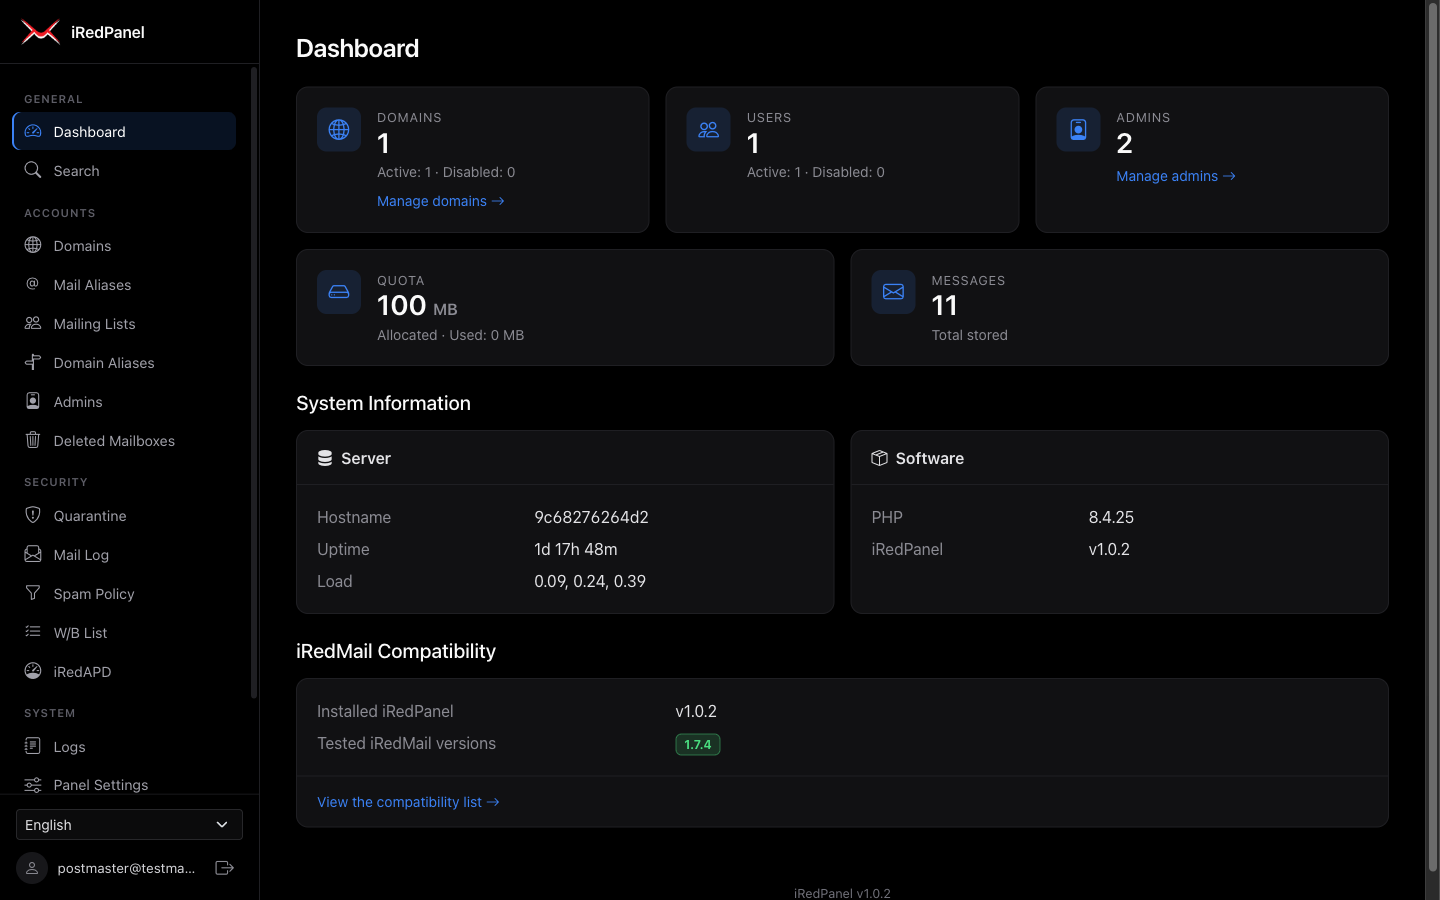
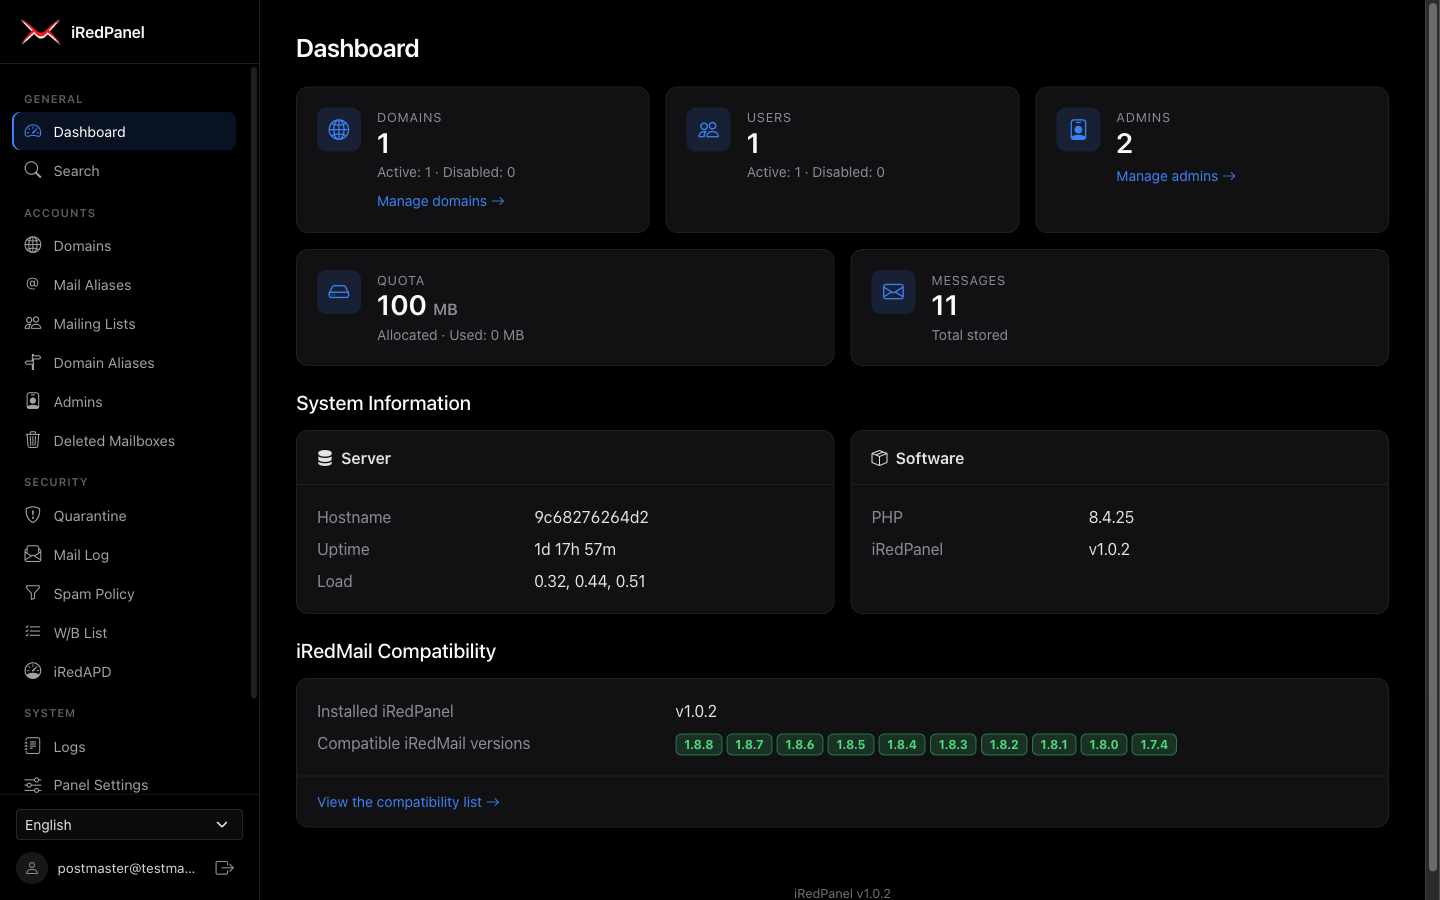
feat(compat): mark iRedPanel 1.0.2 compatible with iRedMail 1.8.0 to 1.8.8
The iRedMail 1.8.0 to 1.8.8 releases change no schema that the panel
uses. Checked per release: the ChangeLog, the upgrade guide on
docs.iredmail.org, samples/ and update/ in the iRedMail tree, and the
bundled iRedAdmin 2.8.1, iRedAPD 6.1 and 6.2 and mlmmjadmin 3.6.2 and
3.6.3 releases.

- vmail, iredadmin, amavisd and iredapd: no table or column change.
  PostgreSQL only replaces the used_quota trigger for Dovecot 2.4.
- LDAP: no schema or attribute change; slapd.conf adds an
  employeeNumber index.
- mlmmjadmin API: no route change; a new optional list parameter.

The list now holds versions that are compatible by this check, so the
UI, README and installation guides say "compatible" instead of
"tested", and compat.tested becomes compat.compatible.

Changed region(s): [[0.4688, 0.8089, 0.8438, 0.84], [0.2188, 0.8089, 0.375, 0.84], [0.375, 0.5911, 0.4688, 0.6533]]

diff --git a/templates/dashboardCompatibility.php b/templates/dashboardCompatibility.php
@@ -11,7 +11,7 @@ $current = $compatibility['current'] ?? null;
     <dl class="row mb-0">
       <dt class="col-md-4 text-body-secondary fw-normal"><?= $te('compat.installed') ?></dt>
       <dd class="col-md-8">v<?= $e($systemInfo['iredpanelVersion']) ?></dd>
-      <dt class="col-md-4 text-body-secondary fw-normal"><?= $te('compat.tested') ?></dt>
+      <dt class="col-md-4 text-body-secondary fw-normal"><?= $te('compat.compatible') ?></dt>
       <dd class="col-md-8 mb-0">
         <?php if ($current !== null): ?>
         <?php foreach ($current['iredmail'] as $version): ?>

diff --git a/src/Services/CompatibilityService.php b/src/Services/CompatibilityService.php
@@ -7,7 +7,7 @@ namespace App\Services;
 use App\Models\Settings;
 
 /**
- * The iRedMail versions each iRedPanel release was tested with.
+ * The iRedMail versions each iRedPanel release is compatible with.
  *
  * The list is compatibility.json in the repository root. The dashboard reads the
  * copy on the main branch of GitHub, so an installed panel also sees releases that

diff --git a/templates/compatibility.php b/templates/compatibility.php
@@ -22,7 +22,7 @@ $backendNames = ['ldap' => 'LDAP', 'mysql' => 'MySQL/MariaDB', 'pgsql' => 'Postg
       <thead>
         <tr>
           <th>iRedPanel</th>
-          <th><?= $te('compat.tested') ?></th>
+          <th><?= $te('compat.compatible') ?></th>
           <th><?= $te('compat.backends') ?></th>
           <th><?= $te('compat.released') ?></th>
         </tr>

diff --git a/src/Controllers/CompatibilityController.php b/src/Controllers/CompatibilityController.php
@@ -12,7 +12,7 @@ use App\Utils\SystemInfo;
 class CompatibilityController
 {
     /**
-     * Lists every iRedPanel release with the iRedMail versions it was tested with.
+     * Lists every iRedPanel release with the iRedMail versions it is compatible with.
      */
     public static function view(TemplateEngine $tpl): void
     {

diff --git a/README.md b/README.md
@@ -10,7 +10,7 @@ The application is vanilla PHP 8.1+ with no framework, no ORM and no template en
 |------------|------------------------------------------------------|
 | Package    | `kilimcininkoroglu/iredpanel`                        |
 | Version    | `1.0.2`                                              |
-| iRedMail   | Tested with `1.7.4`                                  |
+| iRedMail   | Compatible with `1.7.4` and `1.8.0` to `1.8.8`       |
 | Repository | `https://github.com/KilimcininKorOglu/iRedPanel.git` |
 | License    | MIT                                                  |
 
@@ -44,14 +44,14 @@ With the LDAP backend, mail accounts live in LDAP, and the iRedAdmin, Amavisd an
 
 ## iRedMail Compatibility
 
-| iRedPanel | Tested iRedMail versions | Backends                         | Released   |
-|-----------|--------------------------|----------------------------------|------------|
-| 1.0.2     | 1.7.4                    | OpenLDAP, MySQL/MariaDB, PostgreSQL | 2026-07-26 |
+| iRedPanel | Compatible iRedMail versions | Backends | Released |
+|-----------|------------------------------|----------|----------|
+| 1.0.2     | 1.7.4, 1.8.0, 1.8.1, 1.8.2, 1.8.3, 1.8.4, 1.8.5, 1.8.6, 1.8.7, 1.8.8 | OpenLDAP, MySQL/MariaDB, PostgreSQL | 2026-07-26 |
 
-[`compatibility.json`](compatibility.json) is the source of this table. It maps every iRedPanel release to the iRedMail versions that the project tested it with. A version enters the list only after a test.
+[`compatibility.json`](compatibility.json) is the source of this table. It maps every iRedPanel release to the iRedMail versions that it is compatible with. The panel runs on the iRedMail 1.7.4 test stacks. A later iRedMail version enters the list after its ChangeLog, its upgrade guide on docs.iredmail.org and its schema files (`vmail`, `iredadmin`, `amavisd`, `iredapd` and the LDAP schema), including the bundled iRedAdmin, iRedAPD and mlmmjadmin releases, show no change that the panel depends on. The first iRedMail version with such a change needs a new iRedPanel release.
 
 - The panel reads the copy on the `main` branch of GitHub, so an installed panel also sees newer releases. It caches the download for 24 hours. When GitHub cannot be read, or `CHECK_UPDATES=false`, it uses the copy bundled with the installed version.
-- **System > iRedMail Compatibility** (`/compatibility`, global admin) lists every release and marks the installed one. The dashboard shows the tested iRedMail versions of the installed release, and an alert when a newer release exists.
+- **System > iRedMail Compatibility** (`/compatibility`, global admin) lists every release and marks the installed one. The dashboard shows the compatible iRedMail versions of the installed release, and an alert when a newer release exists.
 - The panel does not detect the iRedMail version of the server. Compare it with the list yourself (`cat /etc/iredmail-release` on the mail server).
 - Upgrade order: upgrade iRedMail first, then install the iRedPanel release that lists the new iRedMail version.
 
@@ -382,7 +382,7 @@ server {
 - Domain, user and admin counts with active and disabled totals
 - Allocated and used quota, and stored message count
 - System information: hostname, uptime, load, PHP and panel versions
-- Tested iRedMail versions of the installed release, and an alert for a newer release (see [iRedMail Compatibility](#iredmail-compatibility))
+- Compatible iRedMail versions of the installed release, and an alert for a newer release (see [iRedMail Compatibility](#iredmail-compatibility))
 
 ### Activity Log
 - Admin operations are logged to the `log` table of the iRedAdmin database
@@ -586,7 +586,7 @@ Dockerfile                     dev and prod images (PHP 8.4 + Apache)
 docker-compose.dev.yml         Development container (127.0.0.1:8521)
 docker-compose.prod.yml        Production container (127.0.0.1:8522)
 .env.example                   Environment variable template
-compatibility.json             Tested iRedMail versions per iRedPanel release
+compatibility.json             Compatible iRedMail versions per iRedPanel release
 cli/                           CLI tools and cron scripts (cli/bootstrap.php loads the environment)
 docs/install/                  Installation guides per backend (en, tr)
 docs/screenshots/              README images

diff --git a/docs/install/tr/ldap.md b/docs/install/tr/ldap.md
@@ -6,9 +6,9 @@ Diğer backend'ler: [MariaDB/MySQL](mariadb.md), [PostgreSQL](postgresql.md). İ
 
 ## Uyumluluk
 
-| iRedPanel | Test edilen iRedMail sürümü | Test edilen sürüm türü |
-|-----------|-----------------------------|------------------------|
-| 1.0.2     | 1.7.4                       | OPENLDAP edition       |
+| iRedPanel | Uyumlu iRedMail sürümleri |
+|-----------|---------------------------|
+| 1.0.2     | 1.7.4, 1.8.0, 1.8.1, 1.8.2, 1.8.3, 1.8.4, 1.8.5, 1.8.6, 1.8.7, 1.8.8 |
 
 Geçerli liste, repodaki [`compatibility.json`](../../../compatibility.json) dosyasıdır. Dashboard ve **System > iRedMail Compatibility** sayfası bu dosyayı okur. Sunucunuzdaki iRedMail sürümünü kontrol edin:
 
@@ -298,7 +298,7 @@ Mail sunucusunun firewall'unda, panel adresinden `389`, `3306`, `7790` ve `9998`
 
 ## İlk Giriş
 
-Panel URL'ini açın ve bir global admin ile giriş yapın. iRedMail installer, `postmaster@<ilk domain>` hesabını `domainGlobalAdmin=yes` ile oluşturur. Dashboard domain, kullanıcı ve admin sayılarını gösterir. **System > iRedMail Compatibility** sayfası, kurulu sürümün test edildiği iRedMail sürümlerini gösterir.
+Panel URL'ini açın ve bir global admin ile giriş yapın. iRedMail installer, `postmaster@<ilk domain>` hesabını `domainGlobalAdmin=yes` ile oluşturur. Dashboard domain, kullanıcı ve admin sayılarını gösterir. **System > iRedMail Compatibility** sayfası, kurulu sürümün uyumlu olduğu iRedMail sürümlerini gösterir.
 
 Sayfa "Configuration error. Check server logs." mesajını gösterirse, gerekli bir değişken eksiktir veya `ldap` extension'ı yüklü değildir. Nedeni PHP error log'unda yazar. Sayfa backend hata sayfasını gösterirse, panel OpenLDAP'a bağlanamıyordur.
 

diff --git a/docs/install/tr/postgresql.md b/docs/install/tr/postgresql.md
@@ -6,9 +6,9 @@ Diğer backend'ler: [OpenLDAP](ldap.md), [MariaDB/MySQL](mariadb.md). İngilizce
 
 ## Uyumluluk
 
-| iRedPanel | Test edilen iRedMail sürümü | Test edilen sürüm türü |
-|-----------|-----------------------------|------------------------|
-| 1.0.2     | 1.7.4                       | PGSQL edition          |
+| iRedPanel | Uyumlu iRedMail sürümleri |
+|-----------|---------------------------|
+| 1.0.2     | 1.7.4, 1.8.0, 1.8.1, 1.8.2, 1.8.3, 1.8.4, 1.8.5, 1.8.6, 1.8.7, 1.8.8 |
 
 Geçerli liste, repodaki [`compatibility.json`](../../../compatibility.json) dosyasıdır. Dashboard ve **System > iRedMail Compatibility** sayfası bu dosyayı okur. Sunucunuzdaki iRedMail sürümünü kontrol edin:
 
@@ -289,7 +289,7 @@ Mail sunucusunun firewall'unda, panel adresinden `5432`, `7790` ve `9998` port'l
 
 ## İlk Giriş
 
-Panel URL'ini açın ve bir global admin ile giriş yapın. iRedMail installer, `postmaster@<ilk domain>` hesabını global admin olarak oluşturur. Dashboard domain, kullanıcı ve admin sayılarını gösterir. **System > iRedMail Compatibility** sayfası, kurulu sürümün test edildiği iRedMail sürümlerini gösterir.
+Panel URL'ini açın ve bir global admin ile giriş yapın. iRedMail installer, `postmaster@<ilk domain>` hesabını global admin olarak oluşturur. Dashboard domain, kullanıcı ve admin sayılarını gösterir. **System > iRedMail Compatibility** sayfası, kurulu sürümün uyumlu olduğu iRedMail sürümlerini gösterir.
 
 Sayfa "Configuration error. Check server logs." mesajını gösterirse, gerekli bir değişken eksiktir veya backend'in PHP extension'ı yüklü değildir. Nedeni PHP error log'unda yazar. Sayfa backend hata sayfasını gösterirse, panel PostgreSQL'e bağlanamıyordur.
 

diff --git a/docs/install/tr/mariadb.md b/docs/install/tr/mariadb.md
@@ -6,9 +6,9 @@ Diğer backend'ler: [OpenLDAP](ldap.md), [PostgreSQL](postgresql.md). İngilizce
 
 ## Uyumluluk
 
-| iRedPanel | Test edilen iRedMail sürümü | Test edilen sürüm türü |
-|-----------|-----------------------------|------------------------|
-| 1.0.2     | 1.7.4                       | MYSQL edition          |
+| iRedPanel | Uyumlu iRedMail sürümleri |
+|-----------|---------------------------|
+| 1.0.2     | 1.7.4, 1.8.0, 1.8.1, 1.8.2, 1.8.3, 1.8.4, 1.8.5, 1.8.6, 1.8.7, 1.8.8 |
 
 Geçerli liste, repodaki [`compatibility.json`](../../../compatibility.json) dosyasıdır. Dashboard ve **System > iRedMail Compatibility** sayfası bu dosyayı okur. Sunucunuzdaki iRedMail sürümünü kontrol edin:
 
@@ -297,7 +297,7 @@ Mail sunucusunun firewall'unda, panel adresinden `3306`, `7790` ve `9998` port'l
 
 ## İlk Giriş
 
-Panel URL'ini açın ve bir global admin ile giriş yapın. iRedMail installer, `postmaster@<ilk domain>` hesabını global admin olarak oluşturur. Dashboard domain, kullanıcı ve admin sayılarını gösterir. **System > iRedMail Compatibility** sayfası, kurulu sürümün test edildiği iRedMail sürümlerini gösterir.
+Panel URL'ini açın ve bir global admin ile giriş yapın. iRedMail installer, `postmaster@<ilk domain>` hesabını global admin olarak oluşturur. Dashboard domain, kullanıcı ve admin sayılarını gösterir. **System > iRedMail Compatibility** sayfası, kurulu sürümün uyumlu olduğu iRedMail sürümlerini gösterir.
 
 Sayfa "Configuration error. Check server logs." mesajını gösterirse, gerekli bir değişken eksiktir veya backend'in PHP extension'ı yüklü değildir. Nedeni PHP error log'unda yazar. Sayfa backend hata sayfasını gösterirse, panel MariaDB'ye bağlanamıyordur.
 

diff --git a/docs/install/en/ldap.md b/docs/install/en/ldap.md
@@ -6,9 +6,9 @@ Other backends: [MariaDB/MySQL](mariadb.md), [PostgreSQL](postgresql.md). Turkis
 
 ## Compatibility
 
-| iRedPanel | Tested iRedMail version | Tested edition   |
-|-----------|-------------------------|------------------|
-| 1.0.2     | 1.7.4                   | OPENLDAP edition |
+| iRedPanel | Compatible iRedMail versions |
+|-----------|------------------------------|
+| 1.0.2     | 1.7.4, 1.8.0, 1.8.1, 1.8.2, 1.8.3, 1.8.4, 1.8.5, 1.8.6, 1.8.7, 1.8.8 |
 
 [`compatibility.json`](../../../compatibility.json) in the repository is the authoritative list. The dashboard and the **System > iRedMail Compatibility** page read it. Check the iRedMail version of your server:
 
@@ -298,7 +298,7 @@ Allow TCP from the panel address to ports `389`, `3306`, `7790` and `9998` in th
 
 ## First Login
 
-Open the panel URL and log in as a global admin. The iRedMail installer creates `postmaster@<first domain>` with `domainGlobalAdmin=yes`. The dashboard shows the domain, user and admin counts. **System > iRedMail Compatibility** shows the tested iRedMail versions of the installed release.
+Open the panel URL and log in as a global admin. The iRedMail installer creates `postmaster@<first domain>` with `domainGlobalAdmin=yes`. The dashboard shows the domain, user and admin counts. **System > iRedMail Compatibility** shows the compatible iRedMail versions of the installed release.
 
 If the page shows "Configuration error. Check server logs.", a required variable is missing or the `ldap` extension is not loaded. The PHP error log names the cause. If the page shows the backend error page, the panel cannot reach OpenLDAP.
 

diff --git a/docs/install/en/postgresql.md b/docs/install/en/postgresql.md
@@ -6,9 +6,9 @@ Other backends: [OpenLDAP](ldap.md), [MariaDB/MySQL](mariadb.md). Turkish versio
 
 ## Compatibility
 
-| iRedPanel | Tested iRedMail version | Tested edition |
-|-----------|-------------------------|----------------|
-| 1.0.2     | 1.7.4                   | PGSQL edition  |
+| iRedPanel | Compatible iRedMail versions |
+|-----------|------------------------------|
+| 1.0.2     | 1.7.4, 1.8.0, 1.8.1, 1.8.2, 1.8.3, 1.8.4, 1.8.5, 1.8.6, 1.8.7, 1.8.8 |
 
 [`compatibility.json`](../../../compatibility.json) in the repository is the authoritative list. The dashboard and the **System > iRedMail Compatibility** page read it. Check the iRedMail version of your server:
 
@@ -289,7 +289,7 @@ Allow TCP from the panel address to ports `5432`, `7790` and `9998` in the firew
 
 ## First Login
 
-Open the panel URL and log in as a global admin. The iRedMail installer creates `postmaster@<first domain>` as a global admin. The dashboard shows the domain, user and admin counts. **System > iRedMail Compatibility** shows the tested iRedMail versions of the installed release.
+Open the panel URL and log in as a global admin. The iRedMail installer creates `postmaster@<first domain>` as a global admin. The dashboard shows the domain, user and admin counts. **System > iRedMail Compatibility** shows the compatible iRedMail versions of the installed release.
 
 If the page shows "Configuration error. Check server logs.", a required variable is missing or the PHP extension of the backend is not loaded. The PHP error log names the cause. If the page shows the backend error page, the panel cannot reach PostgreSQL.
 

diff --git a/docs/install/en/mariadb.md b/docs/install/en/mariadb.md
@@ -6,9 +6,9 @@ Other backends: [OpenLDAP](ldap.md), [PostgreSQL](postgresql.md). Turkish versio
 
 ## Compatibility
 
-| iRedPanel | Tested iRedMail version | Tested edition |
-|-----------|-------------------------|----------------|
-| 1.0.2     | 1.7.4                   | MYSQL edition  |
+| iRedPanel | Compatible iRedMail versions |
+|-----------|------------------------------|
+| 1.0.2     | 1.7.4, 1.8.0, 1.8.1, 1.8.2, 1.8.3, 1.8.4, 1.8.5, 1.8.6, 1.8.7, 1.8.8 |
 
 [`compatibility.json`](../../../compatibility.json) in the repository is the authoritative list. The dashboard and the **System > iRedMail Compatibility** page read it. Check the iRedMail version of your server:
 
@@ -297,7 +297,7 @@ Allow TCP from the panel address to ports `3306`, `7790` and `9998` in the firew
 
 ## First Login
 
-Open the panel URL and log in as a global admin. The iRedMail installer creates `postmaster@<first domain>` as a global admin. The dashboard shows the domain, user and admin counts. **System > iRedMail Compatibility** shows the tested iRedMail versions of the installed release.
+Open the panel URL and log in as a global admin. The iRedMail installer creates `postmaster@<first domain>` as a global admin. The dashboard shows the domain, user and admin counts. **System > iRedMail Compatibility** shows the compatible iRedMail versions of the installed release.
 
 If the page shows "Configuration error. Check server logs.", a required variable is missing or the PHP extension of the backend is not loaded. The PHP error log names the cause. If the page shows the backend error page, the panel cannot reach MariaDB.
 

diff --git a/CHANGELOG.md b/CHANGELOG.md
@@ -7,8 +7,8 @@ All notable changes to this project will be documented in this file.
 ### Added
 - Account pickers (Tom Select) on address fields: alias members and moderators, mailing list owners, moderators and subscribers, forwarding, BCC, catch-all, admin creation, and the Amavisd and iRedAPD account fields
 - `GET /ajax/accounts` session endpoint for the pickers, limited to the domains of a domain admin
-- `compatibility.json` lists the iRedMail versions that each iRedPanel release was tested with (1.0.2: iRedMail 1.7.4)
-- **System > iRedMail Compatibility** page (`/compatibility`) lists every release from `compatibility.json`; the dashboard shows the tested iRedMail versions of the installed release and a newer release with its iRedMail versions
+- `compatibility.json` lists the iRedMail versions that each iRedPanel release is compatible with (1.0.2: iRedMail 1.7.4, 1.8.0, 1.8.1, 1.8.2, 1.8.3, 1.8.4, 1.8.5, 1.8.6, 1.8.7, 1.8.8)
+- **System > iRedMail Compatibility** page (`/compatibility`) lists every release from `compatibility.json`; the dashboard shows the compatible iRedMail versions of the installed release and a newer release with its iRedMail versions
 - Installation guides for the OpenLDAP, MariaDB/MySQL and PostgreSQL backends in English and Turkish (`docs/install/`), each with a native and a Docker method
 
 ### Changed
